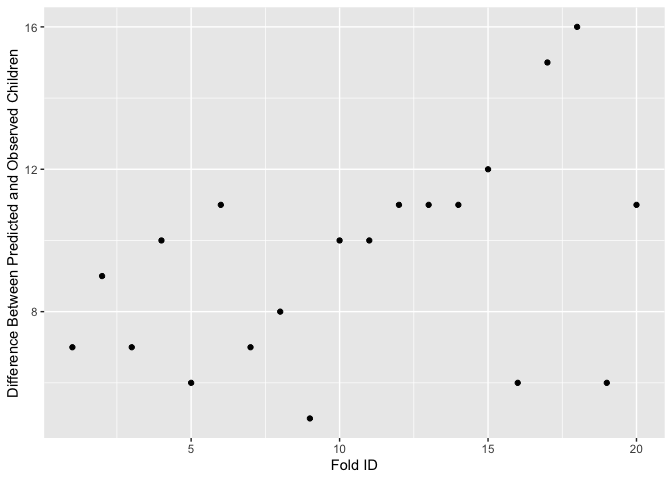
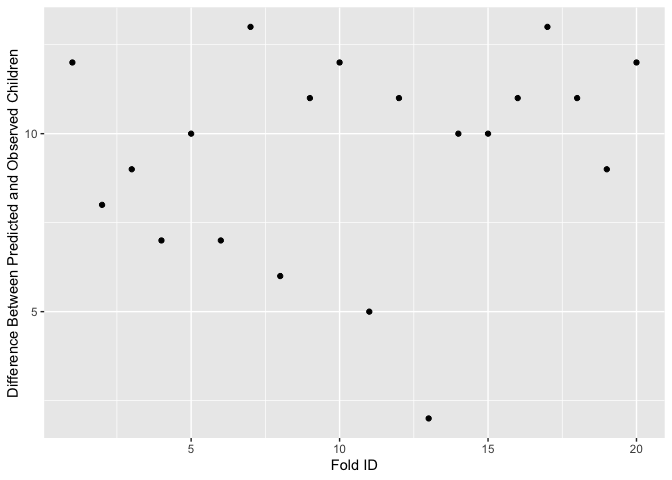
final

diff --git a/hw_2/hw2_hjones_rmd.md b/hw_2/hw2_hjones_rmd.md
@@ -1,0 +1,204 @@
+Problem 1
+---------
+
+### Part 1
+
+![](hw2_hjones_rmd_files/figure-markdown_strict/unnamed-chunk-1-1.png)
+The plot above shows average number of riders per hour by day and by
+month (line color).
+
+As shown in the plot above, on weekdays, no matter which month,
+ridership generally peaks between 3 and 4pm. The month of September sees
+fewer average riders on Mondays, likely due to Labor Day weekend
+weighting down the average as students leave campus. November sees fewer
+average riders on Wednesday , Thursday and Friday, likely due to
+Thanksgiving Holidays weighing down the mean as students leave campus.
+On weekends, there are much fewer riders on average, though it seems
+Saturday sees a steady stream between 10am and 8pm, while on Sundays,
+ridership doesnt pick up until midday, but also drops off around 8pm.
+
+### Part Two
+
+![](hw2_hjones_rmd_files/figure-markdown_strict/unnamed-chunk-2-1.png)
+Plot showing ridership versus temperature by hour of the day
+
+When holding hour of day and weekend status constant, temperature seems
+to have little effect on ridership. If temperature had an effect, we
+would see dots of the same color creeping up in riders as temperature
+increases. However, for both within weekends and within weekdays,
+ridership seems relatively uniformly distributed across temperatures.
+
+Problem 2
+---------
+
+The KNN model and the hand-built model achieved similar out-of-sample
+mean-squared error, and both beat the medium model. I built two models–
+one linear model and one using the K-Nearest-Neighbors technique. The
+hand-built model took into account a variety of home attributes
+including bedrooms, bathrooms, rooms, living space, lot size, land
+value, age, location (waterfront), and various interactions of these
+variables. This process was relatively time and data intensive when
+trying to choose which variables are significant, and which are not.
+Then I used the K-Nearest-Neighbors approach which simply looks at a
+given number of homes that are similar in attributes, and predicts a
+price for a given house. This technique is less thoughtful, but delivers
+results close to, and in some cases exceeding, results from the
+hand-built model when considering out of sample mean squared error.
+
+When assessing home value for taxing purposes, I would suggest using the
+K-Nearest-Neighbors approach to achieve results comparable to a more
+human-built model, in much less time. This approach will also succeed in
+the long term in understanding how different home attributes change in
+value to buyers. As tastes change, the model will simply capture these
+changing tastes by relating attributes to home value, rather than
+require any sort of all-knowing model builder to properly account for
+these changes.
+
+The mean RMSE values below justify the choice of the KNN model for
+predicting house value.
+
+    ## [1] 0.6834982
+
+The mean RMSE above is for the medium model.
+
+    ## [1] 0.6085439
+
+Above is the mean RMSE for the linear model.
+
+    ## Warning: executing %dopar% sequentially: no parallel backend registered
+
+    ## [1] 0.5967797
+
+Above is the minimum mean RMSE for the KNN model.
+
+Problem 3
+---------
+
+![](hw2_hjones_rmd_files/figure-markdown_strict/unnamed-chunk-6-1.png)
+
+The chart above shows the probability that a lender defaults on their
+loan based on their Credit History. Contrary to what one might assume,
+the graph suggests that borrowers with good credit are more likely to
+default on a loan.
+
+Logit model accuracy:
+
+    ##    yhat
+    ## y     0   1
+    ##   0 130   8
+    ##   1  46  15
+
+    ## [1] 0.7286432
+
+The logit model predicts whether a borrower will default on their loan
+based on the loan duration, amount, installments, age of borrower,
+credit history, purpose and foreign status. As shown by the confusion
+matrix output and the accuracy score, this model is only successful
+about 72% of the time.
+
+As discussed above, a borrower’s good credit history actually is
+correlated with a higher probability of default. This could be showing
+up because of how loan decisions are made. If mostly borrowers with high
+credit are awarded loans, then they will represent a higher proportion
+of the loan data and of the default data. It is also possible that good
+credit holders are over-leveraged due to their good credit, and
+therefore more likely to default on a loan due to overall credit
+holdings. It seems there is some selection bias towards good credit in
+the loan awards in general, and this data suggests perhaps good credit
+is not alone a good predictor of credit-worthiness.
+
+Based on the chart above and the model accuracy, this model is a poor
+choice for predicting high vs low probability of default. This model
+does not do a great job of predicting defaults. The data has
+over-sampled defaults and has not accounted for the selection bias
+associated with good credit. This dataset and predictive model would
+under-predict credit default for bad credit score borrowers and
+over-predict for high credit score borrowers. The new sample of data
+will need to have extensive data on the ‘poor’ and ‘terrible’ credit
+score borrowers.
+
+Problem 4
+---------
+
+#### Baseline 1
+
+This first baseline model model is a logit model, regressed on market
+segment, adults, customer type, and repeated guest status. The out of
+sample accuracy is below.
+
+    ##    yhat
+    ## y      0
+    ##   0 8258
+    ##   1  741
+
+    ## [1] 0.9176575
+
+This model has an accuracy of ~92.3% based on a probability threshold of
+0.5. Children rarely are on bookins, so this simple model never predicts
+a child showing up. This model’s accuracy reflects the percent of time
+when no children are present.
+
+#### Baseline 2
+
+The next model, baseline 2, predicts children based on all other
+variables except arrival date, also using a logistic regression. The out
+of sample accuracy is below:
+
+    ##    yhat
+    ## y      0    1
+    ##   0 8156  102
+    ##   1  463  278
+
+    ## [1] 0.9372152
+
+The confusion matrix and accuracy rate above show a slightly more
+sophisticated model, boasting slightly better accuracy. The addition of
+more covariates improved the model by about 1%.
+
+#### Baseline 3
+
+For the third baseline model, I use the lasso method to arrive at which
+variables to use in a predictive model, then plugged them in to a
+logistic model.
+
+    ##    yhat
+    ## y      0    1
+    ##   0 8158  100
+    ##   1  466  275
+
+    ## [1] 0.9371041
+
+This model performs the best of the three, with out of sample accuracy
+of ~94%. The Lasso resulted in the choice variables: hotel, lead\_time,
+adults, meal, market\_segment, distribution\_channel,
+is\_repeated\_guest, previous\_bookings\_not\_canceled,
+reserved\_room\_type, booking\_changes, customer\_type,
+average\_daily\_rate, total\_of\_special\_requests, and arrival\_date. I
+will move forward with this model to the validation data.
+
+### Validation Step 1
+
+Using the model identified in the previous section, I predicted outcomes
+of the full validation data set, then looked at the True Positive vs
+False Positive rates by threshold, as shown in the graph below.
+
+![](hw2_hjones_rmd_files/figure-markdown_strict/unnamed-chunk-12-1.png)
+
+The ROC curve above charts the false positive rate versus the true
+positive rate for the Lasso model built in the last section.
+
+### Validation Step 2
+
+For the final validation step, I used the validation data to fit my best
+performing model. I then assigned a prediction to each observation
+before splitting the data into 20 randomly assigned groups. Within each
+group I calculated the predicted and actual probability of a child, as
+well as the predicted and actual number of children who did arrive. I
+took the difference between reality and prediction and charted it below.
+
+![](hw2_hjones_rmd_files/figure-markdown_strict/unnamed-chunk-13-1.png)
+
+The chart above shows the difference between prediction and reality for
+each fold. The difference varies greatly from fold to fold, suggesting
+that even our best model cannot consistently predict whether a child
+will be present on a booking across random groups of observations.
